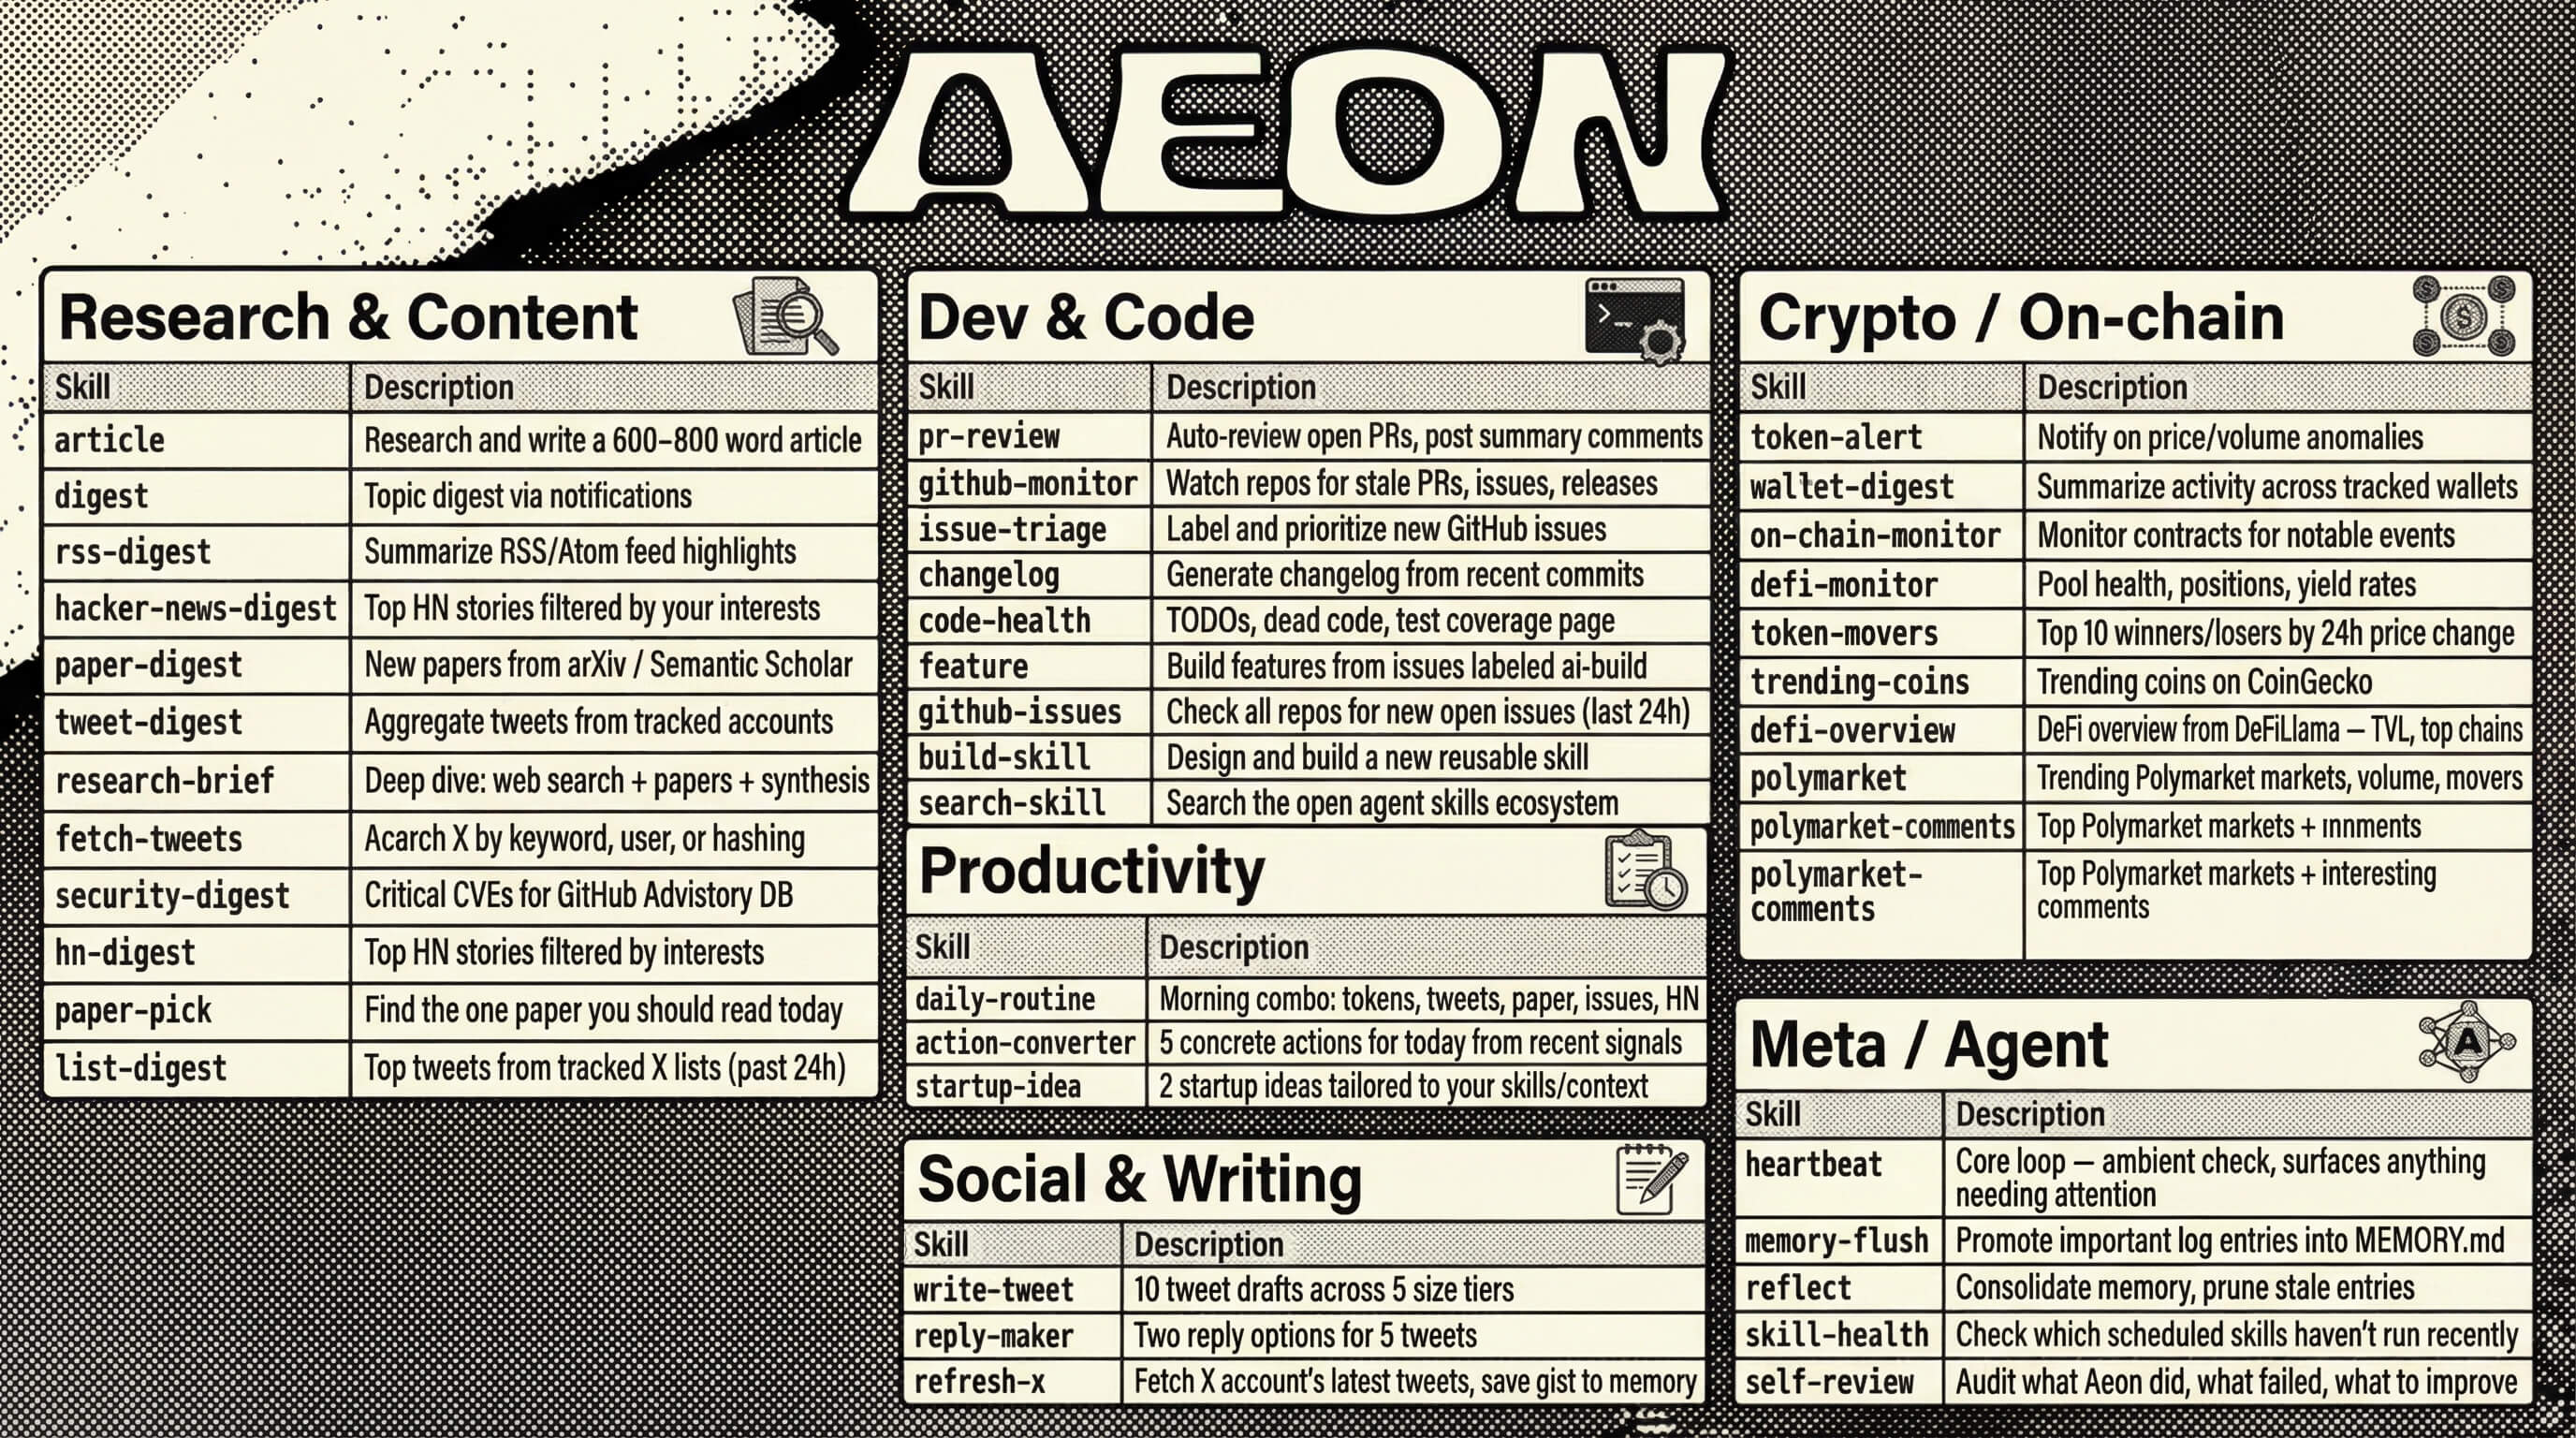
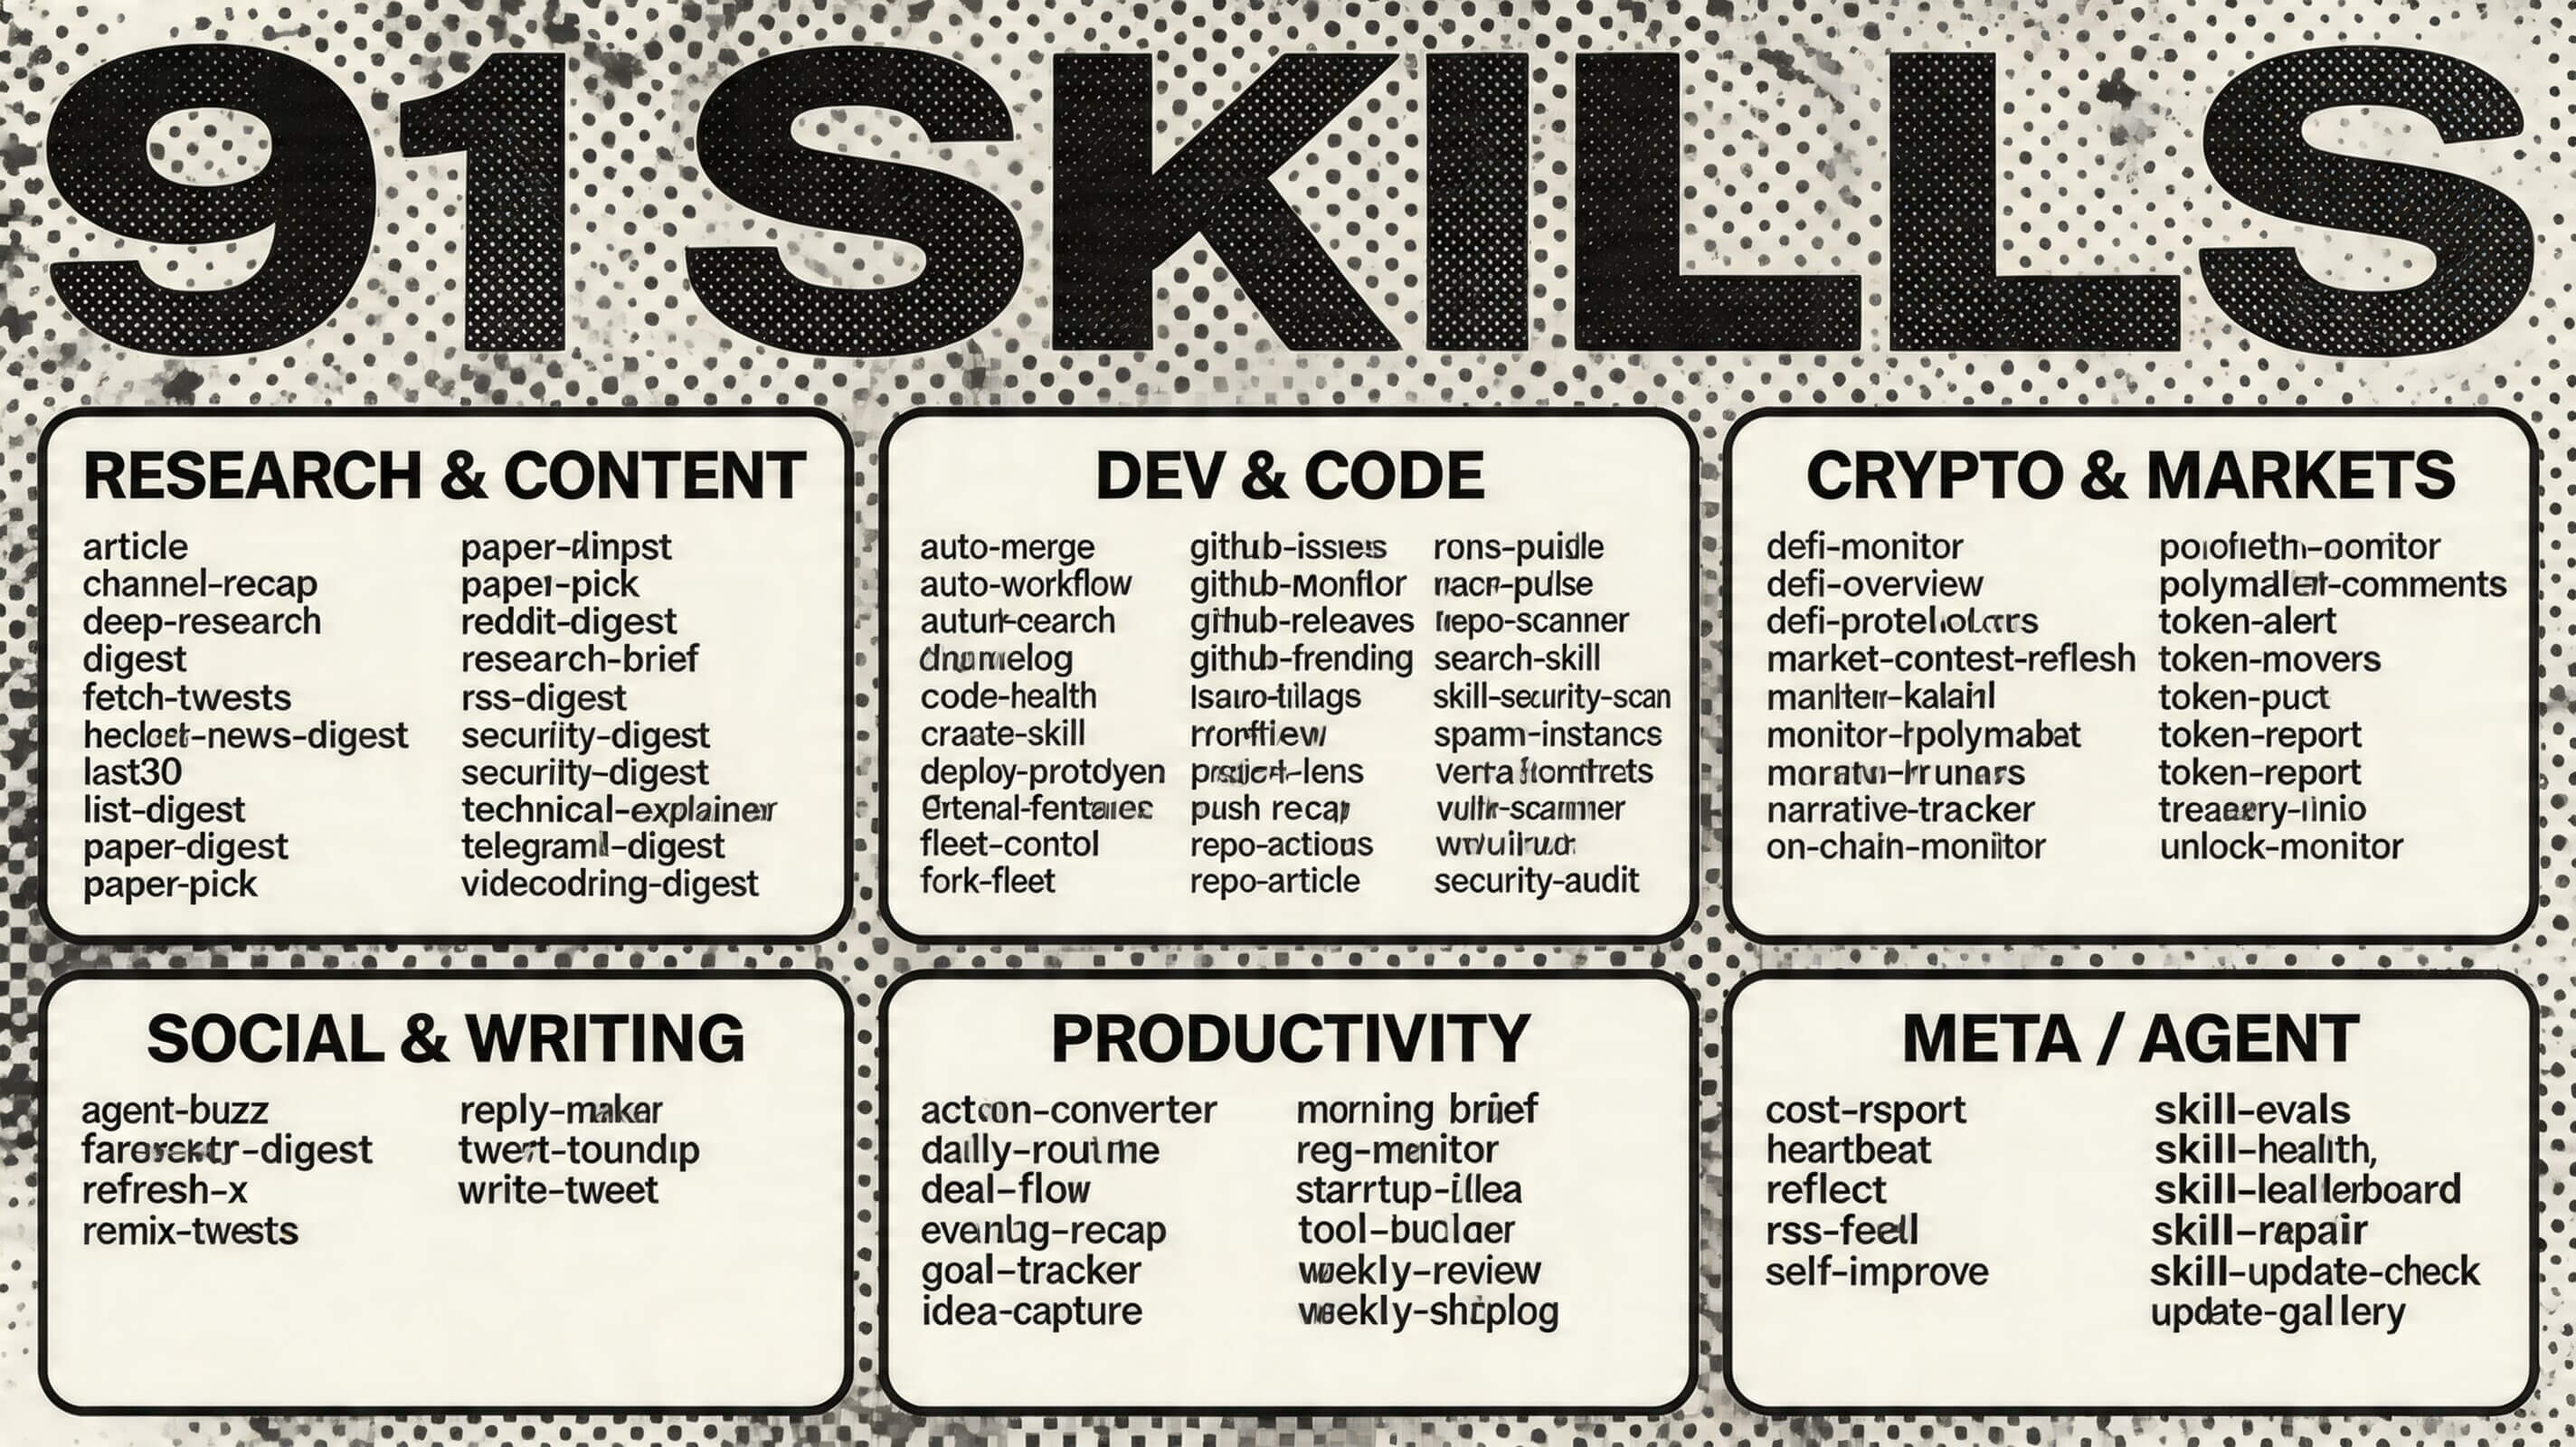
docs: add autonomy, skills, architecture, stack images to README
- autonomy.jpg below autonomy comparison
- skills.jpg in skills section (replaces old image)
- architecture.jpg in self-healing loop section
- stack.jpg in project structure section
- Move all 4 images from root to assets/

diff --git a/README.md b/README.md
@@ -36,7 +36,7 @@ The key difference: **other agents are interactive tools you use. Aeon is an aut
 
 This isn't better for everything — you still want Claude Code for writing code interactively. But for the 90% of recurring tasks that don't need you in the loop, the most autonomous agent is the one that never asks.
 
-![OpenClaw vs Aeon](./assets/openclaw.jpg)
+![Autonomy spectrum](./assets/autonomy.jpg)
 
 ---
 
@@ -137,6 +137,8 @@ Every skill output is automatically scored 1–5 by Haiku after each run (failed
 **Heartbeat** is the only skill enabled by default. Runs 3x daily, checks `memory/cron-state.json` for failed, stuck, or chronically broken skills, stalled PRs, and missed schedules. Nothing to report → logs `HEARTBEAT_OK`. Something needs attention → sends one notification. Listed last in `aeon.yml` so it only fires when no other skill claims the slot.
 
 ### Self-healing loop
+
+![Self-healing architecture](./assets/architecture.jpg)
 
 1. **`heartbeat`** (3x daily) — detects failed, stuck, or chronically broken skills
 2. **`skill-health`** — audits quality scores and flags API degradation patterns
@@ -381,6 +383,8 @@ Every skill reads `CLAUDE.md`, so identity propagates automatically.
 ---
 
 ## Project structure
+
+![The Stack](./assets/stack.jpg)
 
 ```
 CLAUDE.md                ← agent identity (auto-loaded by Claude Code)